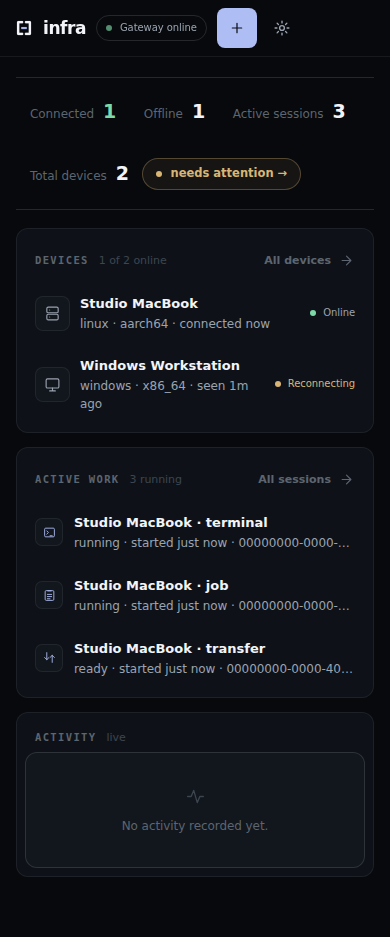
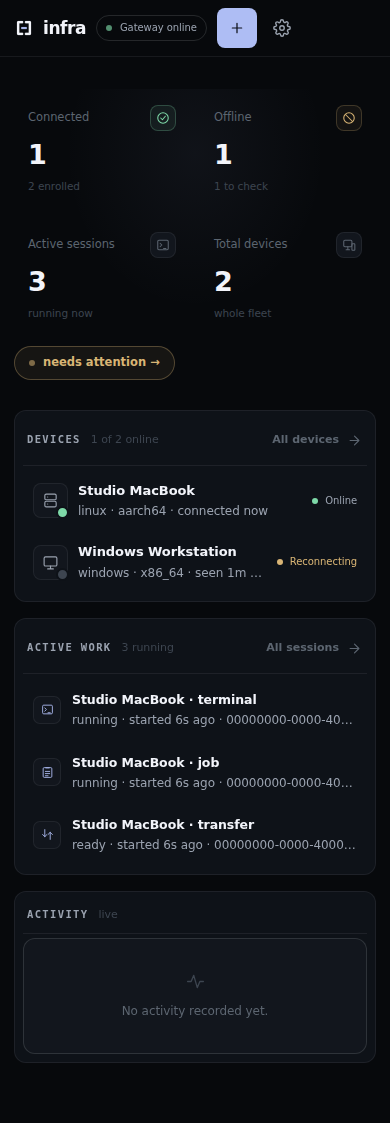
feat(dashboard): console polish - stat cards, floating drawer, session pop-up
The KPI line becomes real stat cards with icon tiles, tabular figures and quiet captions.

Device and session rows are single click targets, keyboard-focusable with Enter/Space; the name is no longer the only affordance.

The device drawer floats in with a soft shadow over a barely-there gradient scrim instead of blacking out the screen.

Sessions and terminals open as a centred pop-up over the console. The interactive terminal keeps raw Esc; everywhere else Esc backs out via a capture-phase handler.

Activity entries right-align their relative time and ellipsize long identifiers so nothing escapes its zone. The settings icon is a real cog that turns on hover; zones rise in sequence; QA covers whole-row targets and the pop-up.

diff --git a/apps/dashboard/app.js b/apps/dashboard/app.js
@@ -36,7 +36,7 @@ logout:'<path d="M10 3H5a2 2 0 0 0-2 2v14a2 2 0 0 0 2 2h5M14 16l4-4-4-4m4 4H9"/>
 close:'<path d="M6 6l12 12M18 6 6 18"/>',
 copy:'<rect x="8" y="8" width="12" height="12" rx="2"/><path d="M16 8V5a2 2 0 0 0-2-2H5a2 2 0 0 0-2 2v9a2 2 0 0 0 2 2h3"/>',
 key:'<circle cx="8" cy="15" r="4"/><path d="M11 12 21 2l1 4-3 1-1 3-3 1-4 4"/>',
-gear:'<circle cx="12" cy="12" r="3.2"/><path d="M12 2.8v2.4M12 18.8v2.4M2.8 12h2.4M18.8 12h2.4M5.5 5.5l1.7 1.7M16.8 16.8l1.7 1.7M18.5 5.5l-1.7 1.7M7.2 16.8l-1.7 1.7"/>'
+gear:'<circle cx="12" cy="12" r="3"/><path d="M19.4 15a1.65 1.65 0 0 0 .33 1.82l.06.06a2 2 0 1 1-2.83 2.83l-.06-.06a1.65 1.65 0 0 0-1.82-.33 1.65 1.65 0 0 0-1 1.51V21a2 2 0 1 1-4 0v-.09a1.65 1.65 0 0 0-1-1.51 1.65 1.65 0 0 0-1.82.33l-.06.06a2 2 0 1 1-2.83-2.83l.06-.06a1.65 1.65 0 0 0 .33-1.82 1.65 1.65 0 0 0-1.51-1H3a2 2 0 1 1 0-4h.09a1.65 1.65 0 0 0 1.51-1 1.65 1.65 0 0 0-.33-1.82l-.06-.06a2 2 0 1 1 2.83-2.83l.06.06a1.65 1.65 0 0 0 1.82.33h.01a1.65 1.65 0 0 0 1-1.51V3a2 2 0 1 1 4 0v.09a1.65 1.65 0 0 0 1 1.51h.01a1.65 1.65 0 0 0 1.82-.33l.06-.06a2 2 0 1 1 2.83 2.83l-.06.06a1.65 1.65 0 0 0-.33 1.82v.01a1.65 1.65 0 0 0 1.51 1H21a2 2 0 1 1 0 4h-.09a1.65 1.65 0 0 0-1.51 1z"/>'
 });
 function icon(name){
   const safe=Object.hasOwn(iconShapes,name)?name:'devices';
@@ -146,22 +146,22 @@ function reconnectExplanation(d){
 function deviceRow(d){
   const status=deviceState(d),work=(d.active_jobs||0)+(d.active_terminals||0)+(d.active_transfers||0),caps=d.capabilities||[];
   const shown=caps.slice(0,3).map(c=>`<span class="pill">${esc(capabilityLabel(c))}</span>`).join(''),more=caps.length>3?`<span class="pill more">+${caps.length-3}</span>`:'';
-  return `<div class="device-row"><div class="device-primary"><div class="device-avatar ${d.online&&!d.revoked?'online':''}">${platformIcon(d.platform)}</div><div class="device-primary-text"><button class="device-link" data-device="${esc(d.device_id)}">${esc(d.device_name)}</button><div class="device-meta">${esc(d.platform)} · ${esc(d.arch)} · ${d.online?'connected now':`seen ${relative(d.last_seen_unix_ms)}`}</div></div></div><div class="caps">${shown}${more}</div><div class="work-count">${work?`${work} active`:'—'}</div><div class="status ${status}">${status[0].toUpperCase()+status.slice(1)}</div></div>`;
+  return `<div class="device-row" data-device="${esc(d.device_id)}" role="button" tabindex="0"><div class="device-primary"><div class="device-avatar ${d.online&&!d.revoked?'online':''}">${platformIcon(d.platform)}</div><div class="device-primary-text"><span class="device-link">${esc(d.device_name)}</span><div class="device-meta">${esc(d.platform)} · ${esc(d.arch)} · ${d.online?'connected now':`seen ${relative(d.last_seen_unix_ms)}`}</div></div></div><div class="caps">${shown}${more}</div><div class="work-count">${work?`${work} active`:'—'}</div><div class="status ${status}">${status[0].toUpperCase()+status.slice(1)}</div></div>`;
 }
 function sessionRow(s){
   const kind=String(s.kind||'session'),status=String(s.status||'unknown');
-  return `<div class="session-row"><div class="session-kind-icon ${esc(kind)}">${kindIcon(kind)}</div><div><button class="device-link" data-session="${esc(s.id)}" data-device="${esc(s.device_id)}" data-kind="${esc(kind)}">${esc(s.device_name)} · ${esc(kind)}</button><div class="session-meta">${esc(status)} · started ${relative(s.started_at_unix_ms)}${s.device_online?'':' · device offline'} · ${esc(s.id)}</div></div><span class="pill">${esc(status)}</span></div>`;
+  return `<div class="session-row" data-session="${esc(s.id)}" data-device="${esc(s.device_id)}" data-kind="${esc(kind)}" role="button" tabindex="0"><div class="session-kind-icon ${esc(kind)}">${kindIcon(kind)}</div><div><span class="session-title">${esc(s.device_name)} · ${esc(kind)}</span><div class="session-meta">${esc(status)} · started ${relative(s.started_at_unix_ms)}${s.device_online?'':' · device offline'} · ${esc(s.id)}</div></div><span class="pill">${esc(status)}</span></div>`;
 }
 function activityRow(a){
   const outcome=String(a.outcome||'');const state=outcome==='ok'||outcome==='success'?'ok':outcome.includes('fail')||outcome.includes('error')?'failed':'';
-  return `<div class="activity-row"><div class="activity-dot ${state}"></div><div><div class="session-title">${esc(a.action)}${a.device_name?` · ${esc(a.device_name)}`:''}</div><div class="session-meta">${relative(a.at_unix_ms)} · ${esc(outcome)}${a.request_id?` · ${esc(a.request_id)}`:''}</div></div></div>`;
+  const when=relative(a.at_unix_ms);return `<div class="activity-row"><div class="activity-dot ${state}"></div><div class="activity-main"><div class="session-title">${esc(a.action)}${a.device_name?` · ${esc(a.device_name)}`:''}</div><div class="session-meta">${esc(outcome)}${a.request_id?` · ${esc(a.request_id)}`:''}</div></div><time class="activity-when">${esc(when)}</time></div>`;
 }
 function activeSession(s){return ['running','starting','canceling','uploading','downloading','ready'].includes(s.status);}
 function render(){
   const online=state.devices.filter(d=>d.online&&!d.revoked).length,offline=state.devices.filter(d=>!d.online&&!d.revoked).length,revoked=state.devices.filter(d=>d.revoked).length,active=state.sessions.filter(activeSession).length;
-  const metrics=[['Connected',online,'online','check'],['Offline',offline,'offline','offline'],['Active sessions',active,'work','terminal'],['Total devices',state.devices.length-revoked,'enrolled','devices']];
+  const metrics=[['Connected',online,'online','check',(state.devices.length-revoked)+' enrolled'],['Offline',offline,'offline','offline',offline?offline+' to check':'all healthy'],['Active sessions',active,'work','terminal','running now'],['Total devices',state.devices.length-revoked,'enrolled','devices',revoked?revoked+' revoked':'whole fleet']];
   const offlineDevices=state.devices.filter(d=>!d.revoked&&!d.online);
-  $('#summary').innerHTML=metrics.map(([k,v,c,i])=>`<div class="summary-card ${c}"><div class="metric-top"><span>${k}</span><span class="metric-icon">${icon(i)}</span></div><strong>${v}</strong></div>`).join('')+(offlineDevices.length?`<button type="button" class="attention-chip" data-device="${esc(offlineDevices[0].device_id)}"><i></i>needs attention &rarr;</button>`:'');
+  $('#summary').innerHTML=metrics.map(([k,v,c,i,s])=>`<div class="summary-card ${c}"><div class="metric-top"><span>${k}</span><span class="metric-icon">${icon(i)}</span></div><strong>${v}</strong><em class="metric-sub">${esc(s)}</em></div>`).join('')+(offlineDevices.length?`<button type="button" class="attention-chip" data-device="${esc(offlineDevices[0].device_id)}"><i></i>needs attention &rarr;</button>`:'');
   const devices=state.devices.length?state.devices.map(deviceRow).join(''):emptyState('No devices enrolled yet.','devices');
   $('#all-devices').innerHTML=devices;applyDeviceSearch();
   $('#overview-devices').innerHTML=state.devices.length?state.devices.map(deviceRow).join(''):'<div class="first-device">'+icon('devices')+'<h3>Add your first computer</h3><p>Install Infra, compare the pairing codes, and approve it here.</p><button class="primary" data-add-device>Add a device</button></div>';
@@ -482,7 +482,7 @@ function applyDeviceSearch(){
   const rows=$$('#all-devices .device-row');
   let found=0;
   rows.forEach(row=>{
-    const id=row.querySelector('[data-device]')?.dataset.device;
+    const id=row.dataset.device;
     const device=state.devices.find(d=>d.device_id===id);
     const text=[device?.device_name,device?.platform,device?.arch,...(device?.capabilities||[])].join(' ').toLocaleLowerCase();
     const match=!query||text.includes(query);
@@ -504,7 +504,7 @@ function applyZoneSearch(){
   const query=search.value.trim().toLocaleLowerCase();
   let found=0;
   $$('#overview-devices .device-row').forEach(row=>{
-    const id=row.querySelector('[data-device]')?.dataset.device;
+    const id=row.dataset.device;
     const device=state.devices.find(d=>d.device_id===id);
     const text=[device?.device_name,device?.platform,device?.arch,...(device?.capabilities||[])].join(' ').toLocaleLowerCase();
     const match=!query||text.includes(query);
@@ -527,11 +527,20 @@ document.addEventListener('keydown',event=>{
   event.preventDefault();setView('overview');$('#zone-search').focus();
 });
 document.addEventListener('keydown',event=>{
+  if((event.key!=='Enter'&&event.key!==' ')||event.metaKey||event.ctrlKey||event.altKey||event.isComposing)return;
+  if(!(event.target instanceof Element)||event.target!==event.target.closest('.device-row[data-device],.session-row[data-session]'))return;
+  event.preventDefault();
+  const row=event.target;
+  if(row.dataset.session)navigateSession(row.dataset.device,row.dataset.kind,row.dataset.session);else navigateDevice(row.dataset.device);
+});
+document.addEventListener('keydown',event=>{
   if(event.key!=='Escape')return;
   if($('#enroll-dialog')?.open)return;
+  // The interactive terminal keeps raw Esc (vim, shells); everywhere else Esc backs out.
+  if(event.target instanceof Element&&event.target.closest('.xterm'))return;
   const hash=location.hash;
   if(hash.startsWith('#device/')||hash.startsWith('#session/'))setView('overview');
-});
+},{capture:true});
 const settingsPop=$('#settings-pop');
 $('#settings-gear').addEventListener('click',event=>{event.stopPropagation();settingsPop.hidden=!settingsPop.hidden;});
 document.addEventListener('click',event=>{if(!settingsPop.hidden&&!settingsPop.contains(event.target))settingsPop.hidden=true;});
@@ -540,6 +549,7 @@ $('#pop-keys').addEventListener('click',()=>{settingsPop.hidden=true;setView('se
 $('#drawer-close').addEventListener('click',()=>setView('overview'));
 $('#drawer-scrim').addEventListener('click',()=>setView('overview'));
 $('#session-close').addEventListener('click',()=>setView('overview'));
+$('#session-detail').addEventListener('click',event=>{if(event.target.id==='session-detail')setView('overview');});
 function renderSessionList(){
   const select=$('#session-device'),chosen=select.value;
   select.innerHTML='<option value="">All devices</option>'+state.devices.map(d=>`<option value="${esc(d.device_id)}">${esc(d.device_name)}</option>`).join('');select.value=chosen;

diff --git a/apps/dashboard/styles.css b/apps/dashboard/styles.css
@@ -1126,3 +1126,98 @@ main{max-width:1180px;padding:26px clamp(20px,3.4vw,56px) 90px}
   #session-detail{padding:12px 12px 24px}
 }
 @keyframes sheet-in{from{transform:translateY(48px)}to{transform:none}}
+
+/* ==========================================================================
+   Infra v4.1 - console refinements: stat cards, floating drawer, session
+   pop-up, spring motion, whole-row targets, overflow discipline. Over v4.
+   ========================================================================== */
+:root{--ease-spring:cubic-bezier(.3,1.12,.36,1)}
+main{max-width:1280px}
+
+/* Motion vocabulary. Frames settle once per view change, never per refresh. */
+@keyframes view-in{from{opacity:0;transform:translateY(8px)}to{opacity:1;transform:none}}
+@keyframes rise{from{opacity:0;transform:translateY(14px)}to{opacity:1;transform:none}}
+@keyframes pop-in{from{opacity:0;transform:scale(.97) translateY(-6px)}to{opacity:1;transform:none}}
+@keyframes scrim-in{from{opacity:0}to{opacity:1}}
+@keyframes attention-breathe{0%,100%{opacity:1}50%{opacity:.3}}
+#overview.active,#devices.active,#sessions.active,#activity.active,#settings.active{animation:view-in .3s var(--ease)}
+
+/* Ambient canopy behind the console: barely there, clipped so it never scrolls. */
+#overview{position:relative;overflow:clip}
+#overview::before{content:"";position:absolute;left:50%;top:-80px;width:min(900px,100%);height:360px;transform:translateX(-50%);background:radial-gradient(50% 60% at 50% 40%,rgba(174,189,244,.055),transparent 72%);pointer-events:none}
+
+/* KPI line grows into real stat cards. */
+#summary{display:flex;flex-wrap:wrap;gap:12px;align-items:stretch;background:none;border:0;border-radius:0;padding:6px 0 14px;margin:14px 0 18px;min-height:0}
+.summary-card{position:relative;display:flex;flex-direction:column;align-items:stretch;justify-content:space-between;gap:10px;flex:1 1 0;min-width:150px;background:var(--surface);border:1px solid var(--line);border-radius:14px;padding:14px 16px 13px;transition:border-color .2s var(--ease),transform .2s var(--ease),box-shadow .2s var(--ease)}
+.summary-card:hover{border-color:var(--line-2);transform:translateY(-1px);box-shadow:0 16px 34px -20px rgba(0,0,0,.65)}
+.summary-card .metric-top{display:flex;justify-content:space-between;align-items:center;gap:8px}
+.summary-card span{font-size:11.5px;color:var(--ink-3);white-space:nowrap}
+.summary-card .metric-icon,.summary-card.online .metric-icon,.summary-card.offline .metric-icon{display:flex;align-items:center;justify-content:center;width:26px;height:26px;border-radius:8px;background:var(--surface-2);border:1px solid var(--line);color:var(--ink-3);flex:none}
+.summary-card .metric-icon .ui-icon{width:14px;height:14px;stroke-width:1.8}
+.summary-card.online .metric-icon{color:var(--green);border-color:rgba(126,217,168,.25);background:rgba(126,217,168,.07)}
+.summary-card.offline .metric-icon{color:var(--amber);border-color:rgba(217,181,117,.22);background:rgba(217,181,117,.06)}
+.summary-card strong{font-size:27px;margin:0;color:var(--ink);letter-spacing:-.03em;line-height:1;font-variant-numeric:tabular-nums}
+.summary-card.online strong{color:var(--ink)}
+.summary-card .metric-sub{font-style:normal;font-size:10.5px;color:var(--ink-4);white-space:nowrap;overflow:hidden;text-overflow:ellipsis}
+.attention-chip{align-self:center;min-height:34px;padding:7px 14px;transition:background .15s var(--ease),border-color .15s var(--ease)}
+.attention-chip i{animation:attention-breathe 2.4s ease-in-out infinite}
+
+/* Zones: panels settle in sequence. */
+.overview-stack{gap:16px}
+.overview-stack>section{background:var(--surface);border:1px solid var(--line);border-radius:16px;padding:15px 16px 10px;box-shadow:0 14px 34px -26px rgba(0,0,0,.55);animation:rise .5s var(--ease) both}
+.overview-stack>section:nth-child(2){animation-delay:.07s}
+.overview-stack>section:nth-child(3){animation-delay:.14s}
+.overview-stack .section-head{margin:0 0 4px;padding:2px 4px 10px;border-bottom:1px solid var(--line)}
+.overview-stack .section-head h2{color:var(--ink-2)}
+.overview-stack .section-head p{color:var(--ink-4)}
+#devices>.panel,#sessions>.panel,#activity>.panel{border-radius:16px}
+.settings-card{border-radius:16px}
+
+/* Whole rows are the click target; content never escapes its zone. */
+.device-row,.session-row{cursor:pointer}
+.device-row,.session-row,.activity-row{transition:background .16s var(--ease),transform .16s var(--ease)}
+.overview-stack .device-row:hover,.overview-stack .session-row:hover{background:var(--accent-soft);transform:translateX(2px)}
+.overview-stack .device-row:hover .device-link,.overview-stack .session-row:hover .session-title{color:var(--brand-strong)}
+.device-row:focus-visible,.session-row:focus-visible{outline:2px solid var(--brand);outline-offset:-2px}
+.overview-stack .device-link{display:block;overflow:hidden;text-overflow:ellipsis;white-space:nowrap}
+.overview-stack .device-meta,.overview-stack .session-title,.overview-stack .session-meta{overflow:hidden;text-overflow:ellipsis;white-space:nowrap}
+.session-row>div{min-width:0}
+.activity-main{flex:1;min-width:0}
+.activity-row .session-title,.activity-row .session-meta{overflow:hidden;text-overflow:ellipsis;white-space:nowrap}
+.activity-when{color:var(--ink-4);font-size:10.5px;white-space:nowrap;align-self:center;padding-left:4px}
+.device-avatar{position:relative}
+.device-avatar::after{content:"";position:absolute;right:-2px;bottom:-2px;width:9px;height:9px;border-radius:50%;background:var(--ink-4);border:2px solid var(--surface)}
+.device-avatar.online::after{background:var(--green)}
+
+/* Settings popover arrives from its anchor; the cog turns. */
+.settings-pop{transform-origin:top right;animation:pop-in .18s var(--ease)}
+#settings-gear .ui-icon{transition:transform .5s var(--ease-spring)}
+#settings-gear:hover .ui-icon{transform:rotate(60deg)}
+
+/* Drawer: floats in with a whisper of a scrim instead of dimming the room. */
+.drawer-scrim{background:linear-gradient(to right,rgba(4,6,10,0) 34%,rgba(4,6,10,.18));backdrop-filter:none;-webkit-backdrop-filter:none;animation:scrim-in .28s var(--ease)}
+.drawer-body{width:min(520px,100%);border-radius:18px 0 0 18px;box-shadow:-34px 0 90px -28px rgba(0,0,0,.6);animation:drawer-in .42s var(--ease-spring)}
+@keyframes drawer-in{from{transform:translateX(64px);opacity:0}to{transform:none;opacity:1}}
+
+/* Sessions open as a centred pop-up over the console. */
+#session-detail{display:none;place-items:center;background:rgba(4,6,10,.44);backdrop-filter:blur(5px);-webkit-backdrop-filter:blur(5px);padding:18px;animation:scrim-in .22s var(--ease)}
+#session-detail.active{display:grid}
+#session-detail .session-workspace{width:min(1020px,100%);max-height:calc(100dvh - 36px);overflow:auto;margin:0;border-radius:16px;border:1px solid var(--line-2);box-shadow:0 46px 110px -26px rgba(0,0,0,.78);animation:pop-in .34s var(--ease-spring)}
+#session-detail .session-workspace-head{position:sticky;top:0;background:var(--surface);z-index:1}
+#terminal-screen{height:clamp(280px,44vh,430px)}
+
+/* Narrow screens. */
+@media(max-width:720px){
+  #summary{display:grid;grid-template-columns:repeat(2,minmax(0,1fr));gap:10px;padding:2px 0 12px}
+  .summary-card{min-width:0;padding:13px 14px 12px}
+  .attention-chip{grid-column:1/-1;justify-self:start;align-self:auto;margin:0}
+}
+@media(max-width:650px){
+  main{padding:18px 14px 60px}
+  .overview-stack>section{padding:13px 12px 8px;border-radius:14px}
+  .overview-stack .device-row:hover,.overview-stack .session-row:hover{transform:none}
+  .drawer-body{border-radius:16px 16px 0 0;box-shadow:0 -26px 70px -22px rgba(0,0,0,.55)}
+  #session-detail{padding:10px}
+  #session-detail .session-workspace{max-height:calc(100dvh - 20px);border-radius:14px}
+  .activity-when{display:none}
+}

diff --git a/apps/dashboard/index.html b/apps/dashboard/index.html
@@ -153,7 +153,7 @@
 
       <section id="session-detail" class="view session-overlay">
         <div class="panel session-workspace">
-          <div class="session-workspace-head"><div><h2 id="session-heading"></h2><p id="session-meta" class="small"></p></div><div class="row-actions"><button id="session-close" class="secondary">Back to console</button><button id="session-stop" class="secondary danger">Close terminal</button></div></div>
+          <div class="session-workspace-head"><div><h2 id="session-heading"></h2><p id="session-meta" class="small"></p></div><div class="row-actions"><button id="session-close" class="secondary">Close</button><button id="session-stop" class="secondary danger">Close terminal</button></div></div>
           <div id="terminal-tools" class="toolbar terminal-toolbar hidden"><div class="terminal-toolbar-label">Terminal size</div><label>Cols<input id="terminal-cols" type="number" min="20" max="300" value="100"></label><label>Rows<input id="terminal-rows" type="number" min="5" max="100" value="28"></label><button id="terminal-resize" class="secondary">Resize</button><button id="terminal-interrupt" class="secondary">Ctrl+C</button></div>
           <div id="terminal-screen" class="hidden" aria-label="Interactive terminal"></div>
           <pre id="session-output" class="hidden"></pre>

diff --git a/docs/DASHBOARD.md b/docs/DASHBOARD.md
@@ -302,6 +302,18 @@ One screen instead of five views. The sidebar is replaced by a sticky topbar: br
 
 The browser gate additionally covers the attention chip jumping into the drawer, the settings popover, topbar zone search and the friendlier sign-in copy. Screenshots use fixture data, not private live device data. The frontend is embedded in the Rust gateway; updating the repository or releasing the CLI/agent does not automatically deploy it.
 
+### Console refinements — current polish
+
+Feedback pass over the console layout, still in the v3 design language:
+
+- The KPI line is now real stat cards: icon tile, big tabular figure and a quiet caption, with a hover lift.
+- Whole rows are the click target. A device row or session row opens directly; rows are keyboard-focusable and answer Enter and Space.
+- The device drawer floats in over a whisper of a scrim instead of dimming the whole screen; rounded corners, soft cast shadow, spring easing.
+- Sessions and terminals open as a centred pop-up over the console instead of taking over the page. Esc, the dimmed backdrop or Close returns to the console; the interactive terminal itself keeps raw Esc for vim and shells.
+- Activity entries carry a right-aligned relative time and clamp long identifiers, so nothing leaves its zone.
+- The settings control is an unmistakable cog that turns on hover; its popover springs from the gear.
+- Zones rise in sequence on load; motion respects prefers-reduced-motion.
+
 ## Deployment audit trail — infra.drbijoy.in
 
 | Rollout | Gateway commit | Deployed gateway SHA-256 | Rollback/staging snapshot |
